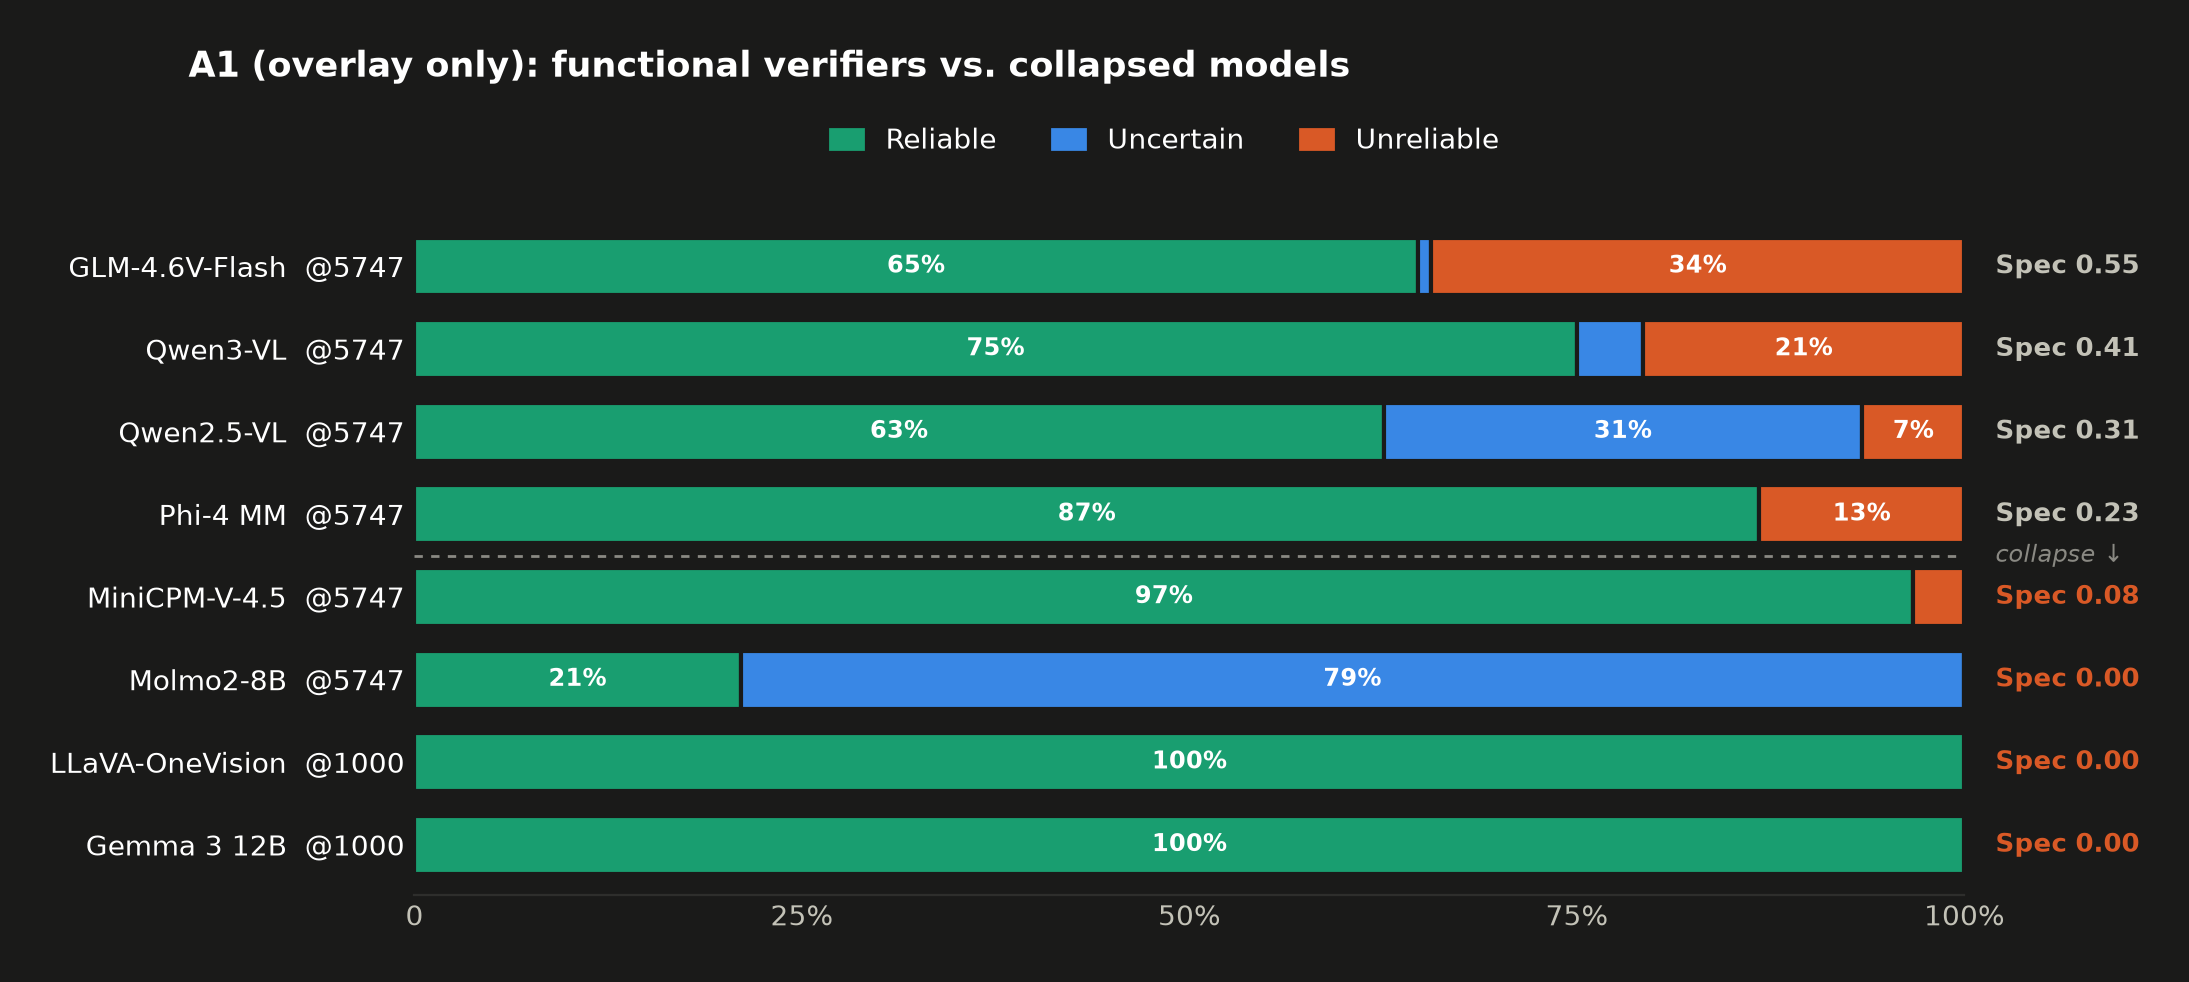
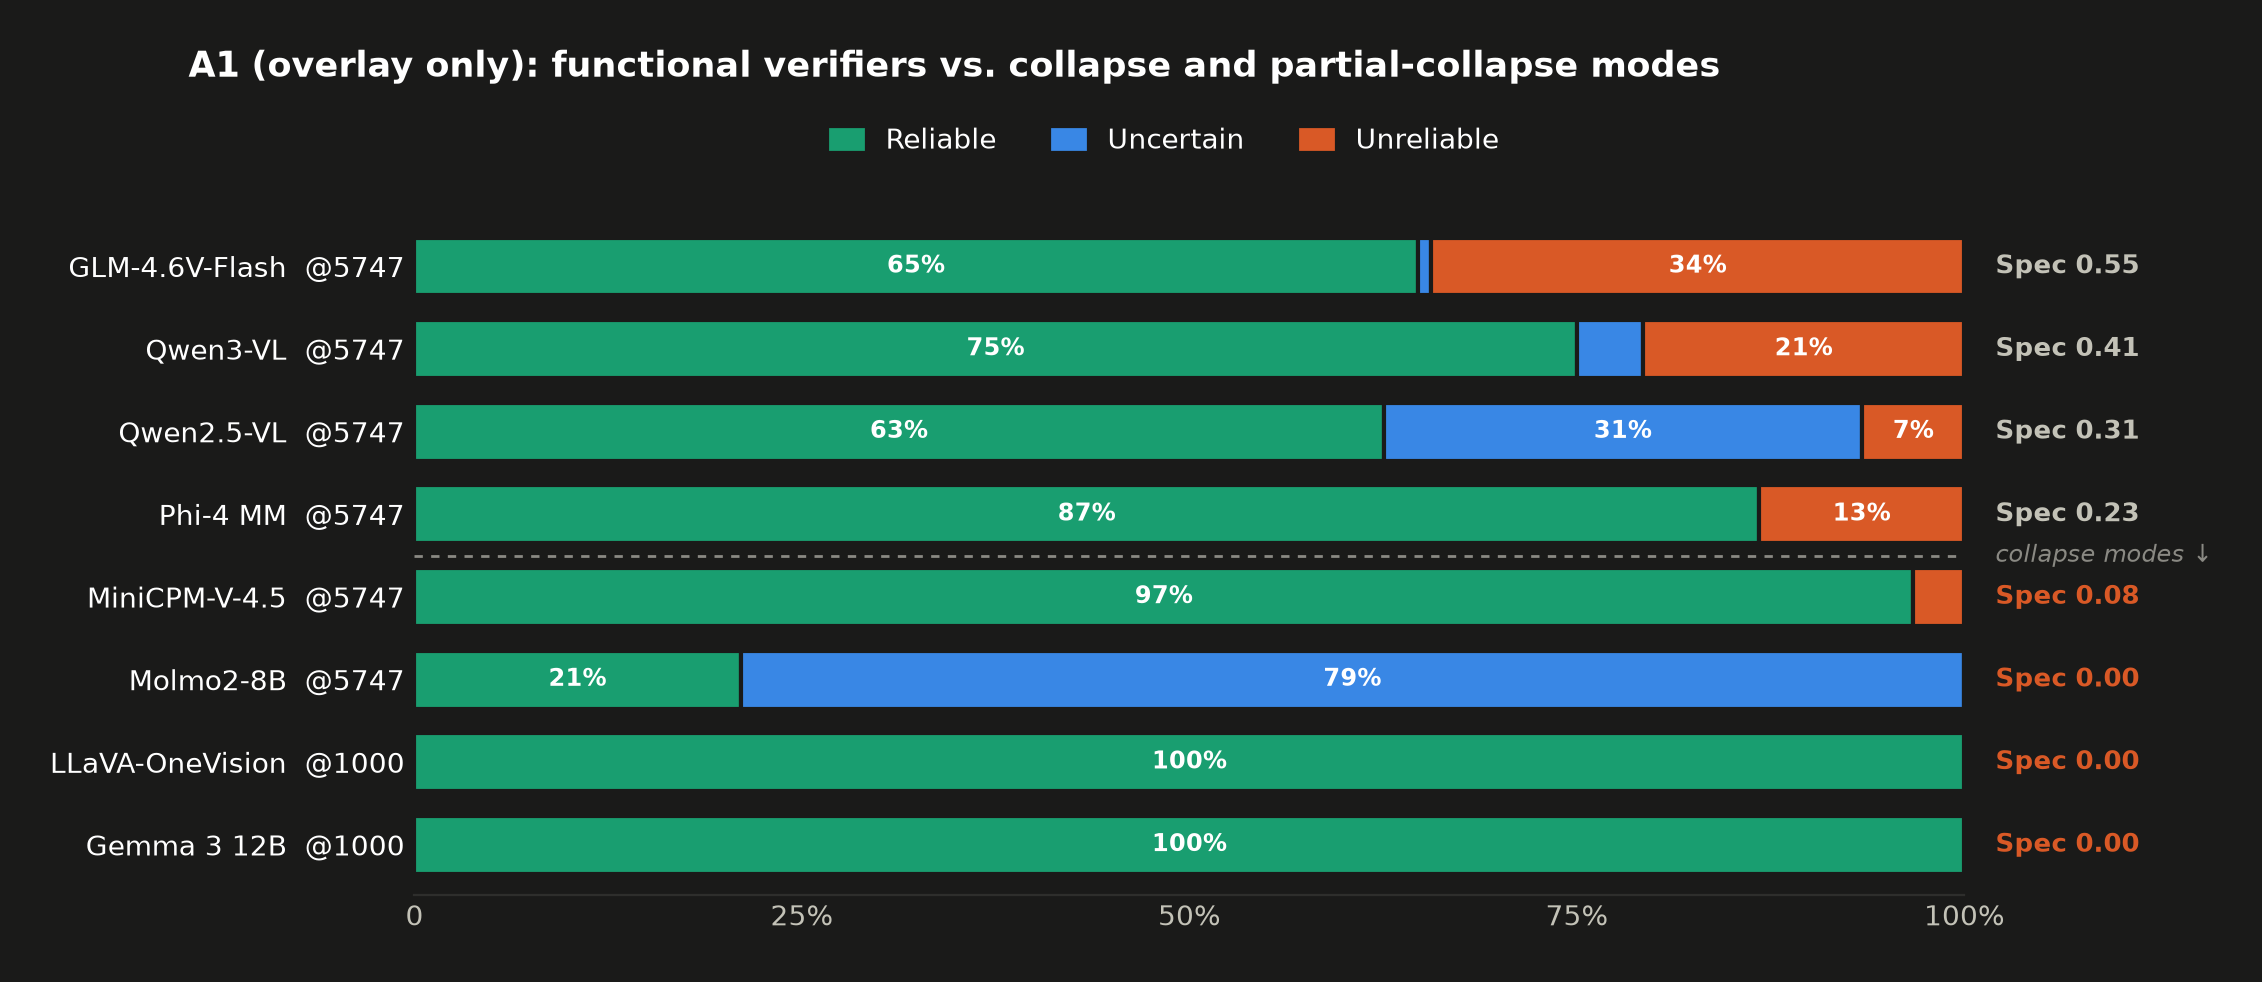
Polish README for publication-quality presentation
Remove emoji and volatile badges, rename the failure-mode section to
distinguish collapse from partial collapse, soften the Molmo2 F1 warning,
compact the model status table, wrap InternVL3.5 status in refresh markers,
and add a TODO hook for a real YOLO candidate in the ablation gallery.

Claude-Session: https://claude.ai/code/session_016guBkros3k4ZuXFpjhKU88

diff --git a/scripts/visualization/make_readme_figures.py b/scripts/visualization/make_readme_figures.py
@@ -37,6 +37,17 @@ from src.preprocessing.ablation_verification_images import (  # noqa: E402
 from src.preprocessing.verification_overlay import render_single_detection_overlay  # noqa: E402
 
 OUT = ROOT / "docs" / "assets" / "readme"
+# TODO(DEAC sync): replace the ablation-gallery target with a REAL YOLO candidate.
+# No YOLO detection is tracked in this repository, so the gallery currently uses a
+# LabelMe `palm` annotation as a stand-in box (the README caption says so). After
+# syncing a real example from DEAC (e.g. a row of a verification_dataset
+# prompt_index.csv plus its raw patch), set YOLO_CANDIDATE to a dict like
+#     {"image": ROOT / "data/samples/images/<patch>.png",
+#      "bbox_xywh": (x, y, w, h)}          # exact YOLO box, pixel coordinates
+# then re-run this script and drop the "Illustration only" note from the README.
+YOLO_CANDIDATE: dict | None = None
+
+# Fallback stand-in (LabelMe annotation, NOT a YOLO detection).
 SAMPLE_IMAGE = ROOT / "data" / "samples" / "images" / "100_0003_0001_2.png"
 SAMPLE_JSON = ROOT / "data" / "samples" / "json" / "100_0003_0001_2.json"
 SAMPLE_PALM_INDEX = 1
@@ -134,8 +145,12 @@ def _sample_bbox() -> tuple[float, float, float, float]:
 
 def ablation_inputs(theme: str) -> None:
     t = THEMES[theme]
-    raw = cv2.imread(str(SAMPLE_IMAGE))
-    bbox = _sample_bbox()
+    if YOLO_CANDIDATE is not None:
+        raw = cv2.imread(str(YOLO_CANDIDATE["image"]))
+        bbox = tuple(float(v) for v in YOLO_CANDIDATE["bbox_xywh"])
+    else:
+        raw = cv2.imread(str(SAMPLE_IMAGE))
+        bbox = _sample_bbox()
     overlay = render_single_detection_overlay(raw, bbox)
     a4 = build_a4_combined_image(overlay, bbox)
     a5 = build_a5_crop_only_image(raw, bbox)
@@ -266,10 +281,10 @@ def a1_behavior(theme: str) -> None:
                 color=t["text2"] if spec >= 0.2 else t["series"][2], fontweight="bold",
                 transform=ax.get_yaxis_transform())
     ax.axhline(3.5, color=t["muted"], linewidth=1, linestyle=(0, (3, 3)))
-    ax.text(1.02, 3.5, "collapse ↓", va="center", fontsize=8.5, color=t["muted"],
+    ax.text(1.02, 3.5, "collapse modes ↓", va="center", fontsize=8.5, color=t["muted"],
             transform=ax.get_yaxis_transform(), style="italic",
             bbox=dict(facecolor=t["surface"], edgecolor="none", pad=1))
-    fig.suptitle("A1 (overlay only): functional verifiers vs. collapsed models",
+    fig.suptitle("A1 (overlay only): functional verifiers vs. collapse and partial-collapse modes",
                  x=0.012, y=1.07, ha="left", fontsize=12.5, color=t["text"], fontweight="bold")
     _legend(fig, t, y=1.01)
     _save(fig, "a1_behavior", theme)

diff --git a/README.md b/README.md
@@ -1,6 +1,6 @@
 <div align="center">
 
-# 🌴 Wild Palm VLM Verification
+# Wild Palm VLM Verification
 
 **Can a vision-language model check a detector's work?**
 
@@ -11,13 +11,12 @@ evaluated under five controlled visual-context ablations (**A1–A5**).
 
 <br/>
 
-![Detections](https://img.shields.io/badge/YOLO_detections-5%2C747-1baf7a?style=flat-square)
-![Models](https://img.shields.io/badge/VLMs_tested-9-2a78d6?style=flat-square)
-![Full A1–A5](https://img.shields.io/badge/full_A1–A5_complete-4_models-4a3aa7?style=flat-square)
-![Ablations](https://img.shields.io/badge/ablations-A1–A5-eb6834?style=flat-square)
+![Task](https://img.shields.io/badge/task-detection_verification-52514e?style=flat-square)
+![Benchmark](https://img.shields.io/badge/benchmark-N%3D5%2C747_YOLO_boxes-52514e?style=flat-square)
+![Ablations](https://img.shields.io/badge/ablations-A1–A5-52514e?style=flat-square)
 ![License](https://img.shields.io/badge/license-MIT-52514e?style=flat-square)
 
-[**Results**](#-results) · [**How it works**](#-how-it-works) · [**Ablations**](#-the-a1a5-ablations) · [**Models**](#-model-status) · [**Reproduce**](#-reproduce) · [**Docs**](#-documentation)
+[**Results**](#results) · [**Method**](#method) · [**Ablations**](#the-a1a5-ablations) · [**Models**](#model-status) · [**Reproduce**](#reproduce) · [**Docs**](#documentation)
 
 </div>
 
@@ -28,22 +27,22 @@ evaluated under five controlled visual-context ablations (**A1–A5**).
   <img alt="The same palm detection rendered as the VLM sees it under A1–A3 (dimmed overlay with a green target box), A4 (overlay plus an enlarged crop) and A5 (crop only)." src="docs/assets/readme/ablation_inputs_light.png">
 </picture>
 
-<sub>What the verifier sees. One target box, rendered with this repo's own builders (<code>verification_overlay.py</code>, <code>ablation_verification_images.py</code>) on a bundled sample patch. For this illustration the box comes from a LabelMe <code>palm</code> annotation; in experiments it is always a YOLO detection.</sub>
+<sub>What the verifier sees. One target box, rendered with this repo's own builders (<code>verification_overlay.py</code>, <code>ablation_verification_images.py</code>) on a bundled sample patch. <b>Illustration only:</b> this target box is a LabelMe <code>palm</code> annotation, because no YOLO candidate is tracked in this repository; in every experiment the target is a frozen YOLO detection. <!-- TODO: regenerate with a real YOLO candidate (see YOLO_CANDIDATE in scripts/visualization/make_readme_figures.py). --></sub>
 
 ---
 
-## ✨ At a glance
+## Overview
 
 > [!IMPORTANT]
 > This repository **does not detect palms**. YOLO detections are **frozen inputs**. The VLM only **verifies** each box, and LabelMe ground truth is used **for evaluation only**. It is never shown to the model.
 
 Every YOLO box gets one closed-set verdict:
 
-| | Verdict | Meaning |
-|:-:|---|---|
-| 🟢 | **Reliable** | Accept: this is a palm |
-| 🔵 | **Uncertain** | Abstain: leave it for human review |
-| 🟠 | **Unreliable** | Reject: likely a detector false positive |
+| Verdict | Role | Meaning |
+|---|---|---|
+| **Reliable** | accept | The box contains a palm |
+| **Uncertain** | abstain | Defer to human review |
+| **Unreliable** | reject | Likely a detector false positive |
 
 **Research question:** can modern VLMs *reject detector false positives while keeping true palms*, and how does the visual context they receive (**A1–A5**) change that?
 
@@ -51,12 +50,12 @@ Every YOLO box gets one closed-set verdict:
 
 1. **Four models finished full A1–A5 at N = 5,747 without collapsing:** Qwen2.5-VL, Qwen3-VL, GLM-4.6V-Flash and Phi-4 Multimodal.
 2. **Context changes behavior a lot, even within one model.** Qwen2.5-VL's specificity is **0.02 under A3** and **0.72 under A5**.
-3. **Collapse is common.** LLaVA-OneVision and Gemma 3 answered *Reliable* for **100%** of samples. MiniCPM-V-4.5 answered Reliable for 97% of them, and Molmo2-8B abstained on **79%**.
+3. **Collapse and partial collapse are common.** LLaVA-OneVision and Gemma 3 answered *Reliable* for **100%** of samples. MiniCPM-V-4.5 answered Reliable for 97% of them, and Molmo2-8B abstained on **79%**.
 4. **Accuracy and F1 on their own mislead here.** Always answering "Reliable" already scores **0.815** accuracy, and Molmo2 reaches **F1 = 0.96** with **specificity = 0**. We report specificity and the full decision mix alongside them.
 
 ---
 
-## 📊 Results
+## Results
 
 ### Full-scale comparison: N = 5,747, all five conditions
 
@@ -84,7 +83,7 @@ The four models behave very differently:
 
 <br/>
 
-Binary metrics exclude *Uncertain* (see [Evaluation](#-evaluation)). BalAcc = (Sens + Spec) / 2, computed from the reported values.
+Binary metrics exclude *Uncertain* (see [Evaluation](#evaluation)). BalAcc = (Sens + Spec) / 2, computed from the reported values.
 
 | Model | Cond. | Acc | Prec | Sens | Spec | BalAcc | F1 | R / U / Ur |
 |---|:-:|--:|--:|--:|--:|--:|--:|--:|
@@ -113,7 +112,7 @@ Source of truth: [`docs/FULL_SCALE_MODEL_COMPARISON.md`](docs/FULL_SCALE_MODEL_C
 
 </details>
 
-### Many VLMs collapse into a single answer
+### VLMs exhibit distinct verification failure modes
 
 <picture>
   <source media="(prefers-color-scheme: dark)" srcset="docs/assets/readme/a1_behavior_dark.png">
@@ -128,25 +127,37 @@ Source of truth: [`docs/FULL_SCALE_MODEL_COMPARISON.md`](docs/FULL_SCALE_MODEL_C
 | **Structured-output failure** | Replies that don't parse as the required JSON | InternVL3-8B: 13 of 100 unparsable in qualification |
 
 > [!WARNING]
-> **Molmo2's F1 of 0.962 is not verification skill.** It is computed on only the **~21%** of samples that received a Reliable or Unreliable verdict, and among those it rejected just **one** box. Always read F1 together with the decision mix, or with decision coverage = (R + Ur) / N, a post-hoc descriptor that the frozen evaluator does not output.
+> **Molmo2's F1 of 0.962 does not by itself indicate strong verification performance.** It is computed on only the **~21%** of samples that received a Reliable or Unreliable verdict, and among those it rejected just **one** box. Always read F1 together with the decision mix, or with decision coverage = (R + Ur) / N, a post-hoc descriptor that the frozen evaluator does not output.
 
-### 🚧 In progress: InternVL3.5-8B
+<!-- STATUS:INTERNVL3_5 BEGIN
+     Refresh this block from docs/EXPERIMENT_STATUS_CANONICAL.md once DEAC results are synced.
+     When the full run completes: move InternVL3.5 into the figures/tables above and update the
+     Model status row. Do not report numbers that are not in the canonical docs / metrics JSON. -->
+### Pending: InternVL3.5-8B
 
-InternVL3-8B failed qualification (87% parse success, Spec 0). The HF-native **InternVL3.5-8B-HF** then **passed** the same balanced-100 gate with 100% parse success, **Spec 0.20** and **BalAcc 0.60**. Both the model version and the inference API changed between the two runs, so the improvement can't be attributed to the version alone. As of **2026-09-24** its full A1–A5 run at N = 5,747 is **still running** (about 1.1k–1.2k of 5,747 samples done for A1–A4, and A5 is queued). No full-scale InternVL3.5 metrics are reported yet.
+| | InternVL3-8B-Instruct | InternVL3.5-8B-HF |
+|---|:-:|:-:|
+| Balanced-100 gate | Failed | Passed |
+| Parse success | 87% | 100% |
+| Specificity / BalAcc | 0.00 / 0.50 | 0.20 / 0.60 |
+| Full A1–A5 @ 5,747 | Not run | In progress |
+
+<sub><b>Status last verified:</b> 2026-09-24 (A1–A4 ≈1.1k–1.2k of 5,747 samples; A5 queued). No full-scale InternVL3.5 metrics are reported yet. Both the model version and the inference API changed between the two runs, so the qualification improvement cannot be attributed to the version alone.</sub>
+<!-- STATUS:INTERNVL3_5 END -->
 
 ---
 
-## 🧭 How it works
+## Method
 
 ```mermaid
 flowchart LR
-    A["🛰 UAV orthomosaic<br/>patches"] --> B["🎯 YOLO detections<br/><i>frozen input</i>"]
-    B --> C["🖼 One sample<br/>per box"]
-    C --> D["🧪 A1–A5<br/>input builder"]
-    D --> E["🤖 VLM verifier<br/><i>model adapter</i>"]
-    E --> F["🧾 Shared JSON<br/>parser"]
+    A["UAV orthomosaic<br/>patches"] --> B["YOLO detections<br/><i>frozen input</i>"]
+    B --> C["One sample<br/>per box"]
+    C --> D["A1–A5<br/>input builder"]
+    D --> E["VLM verifier<br/><i>model adapter</i>"]
+    E --> F["Shared JSON<br/>parser"]
     F --> G{"Reliable<br/>Uncertain<br/>Unreliable"}
-    G --> H["📏 Evaluation vs.<br/>LabelMe GT"]
+    G --> H["Evaluation vs.<br/>LabelMe GT"]
     GT[("LabelMe palm<br/>annotations")] -. evaluation only .-> H
 
     classDef frozen fill:#e8f1fc,stroke:#2a78d6,color:#0b0b0b
@@ -155,13 +166,13 @@ flowchart LR
     class E model
 ```
 
-<sub>🔵 frozen and shared by every model: detections, dataset, A1–A5 inputs, parser, evaluator  ·  🟠 model-specific: adapter, config, registry entry, checkpoint</sub>
+<sub><b>Blue:</b> frozen and shared by every model (detections, dataset, A1–A5 inputs, parser, evaluator) · <b>Orange:</b> model-specific (adapter, config, checkpoint)</sub>
 
 Every compared model sees **the same 5,747 boxes, the same prompts, the same parser and the same evaluator**. Only the adapter changes, and it wraps each model's native processor and chat template.
 
 ---
 
-## 🧪 The A1–A5 ablations
+## The A1–A5 ablations
 
 Five frozen conditions vary **only what the VLM sees**. The boxes, matching rule and metrics stay fixed.
 
@@ -177,7 +188,7 @@ Design rationale: [`docs/ABLATION_STUDY.md`](docs/ABLATION_STUDY.md) · Prompts:
 
 ---
 
-## 📏 Evaluation
+## Evaluation
 
 <table>
 <tr>
@@ -218,26 +229,26 @@ Full protocol: [`docs/EVALUATION_PROTOCOL.md`](docs/EVALUATION_PROTOCOL.md)
 
 ---
 
-## 🤖 Model status
+## Model status
 
-| Model | Registry key | Furthest stage | Status | Behavior |
-|---|---|---|:-:|---|
-| **Qwen2.5-VL-7B-Instruct** | `qwen2_5_vl` | Full A1–A5 @ 5,747 | ✅ Complete | Uses all three verdicts; A5 is the most conservative |
-| **Qwen3-VL-8B-Instruct** | `qwen3_vl` | Full A1–A5 @ 5,747 | ✅ Complete | A5 abstains heavily, with Spec 0.81 |
-| **GLM-4.6V-Flash** | `glm_4_6v_flash` | Full A1–A5 @ 5,747 | ✅ Complete | Rejects often; the most stable specificity |
-| **Phi-4 Multimodal** | `phi4_multimodal` | Full A1–A5 @ 5,747 | ✅ Complete | Never answers Uncertain (binary verifier) |
-| **InternVL3.5-8B-HF** | `internvl3_5_hf` | Full A1–A5 @ 5,747 | 🚧 Running | Passed the balanced-100 gate |
-| **MiniCPM-V-4.5** | `minicpm_v4_5` | A1 @ 5,747 | ⚠ A1 only | Reliable-heavy partial collapse |
-| **Molmo2-8B** | `molmo2_8b` | A1 @ 5,747 | ⚠ A1 only | Abstention-heavy partial collapse |
-| **LLaVA-OneVision** | `llava` | A1 @ 1,000 | ❌ Collapsed | 100% Reliable |
-| **Gemma 3 12B IT** | `gemma` | A1 @ 1,000 | ❌ Collapsed | 100% Reliable |
-| **InternVL3-8B-Instruct** | `internvl3` | Balanced-100 gate | ❌ Failed | Parse failures, Spec 0 |
+| Model | Furthest evaluation | Status | Observed behavior |
+|---|---|---|---|
+| **Qwen2.5-VL-7B-Instruct** | Full A1–A5 @ 5,747 | Complete | Uses all three verdicts; A5 is the most conservative |
+| **Qwen3-VL-8B-Instruct** | Full A1–A5 @ 5,747 | Complete | A5 abstains heavily, with Spec 0.81 |
+| **GLM-4.6V-Flash** | Full A1–A5 @ 5,747 | Complete | Rejects often; the most stable specificity |
+| **Phi-4 Multimodal** | Full A1–A5 @ 5,747 | Complete | Never answers Uncertain (binary verifier) |
+| **InternVL3.5-8B-HF** | Balanced-100 gate; full A1–A5 running | *In progress* | Passed the gate (Spec 0.20); see [Pending](#pending-internvl35-8b) |
+| **MiniCPM-V-4.5** | A1 @ 5,747 | A1 only | Reliable-heavy partial collapse |
+| **Molmo2-8B** | A1 @ 5,747 | A1 only | Abstention-heavy partial collapse |
+| **LLaVA-OneVision** | A1 @ 1,000 | Collapsed | Single-class: 100% Reliable |
+| **Gemma 3 12B IT** | A1 @ 1,000 | Collapsed | Single-class: 100% Reliable |
+| **InternVL3-8B-Instruct** | Balanced-100 gate | Failed | Parse failures, Spec 0 |
 
-<sub>A2–A5 were intentionally **not run** for MiniCPM and Molmo2 after their A1 results. <code>configs/models/gemma4.yaml</code> is an unregistered stub and **Gemma 4 has not been evaluated**. Canonical inventory: <a href="docs/EXPERIMENT_STATUS_CANONICAL.md"><code>docs/EXPERIMENT_STATUS_CANONICAL.md</code></a>.</sub>
+<sub>A2–A5 were intentionally **not run** for MiniCPM and Molmo2 after their A1 results. Gemma 4 is configured but **has not been evaluated**. Registry keys, configs and the canonical inventory: <a href="docs/EXPERIMENT_STATUS_CANONICAL.md"><code>docs/EXPERIMENT_STATUS_CANONICAL.md</code></a>.</sub>
 
 ---
 
-## 🚀 Reproduce
+## Reproduce
 
 The main launcher is **`scripts/submit_model_ablation.sh`**. It submits one Slurm job per condition through `jobs/run_verification.slurm`, and per-model environments and checkpoints are resolved in `jobs/lib/model_runtime.sh`. It **dry-runs by default**, and nothing is submitted until you pass `--submit`.
 
@@ -301,7 +312,7 @@ Never change the A1–A5 semantics, the shared parser or the evaluator to suit o
 
 ---
 
-## 🗂 Repository layout
+## Repository layout
 
 ```
 wild-palm-lvm-verification/
@@ -327,7 +338,7 @@ Architecture and fairness contract: [`docs/ARCHITECTURE.md`](docs/ARCHITECTURE.m
 
 ---
 
-## 📚 Documentation
+## Documentation
 
 | Document | What's inside |
 |---|---|
